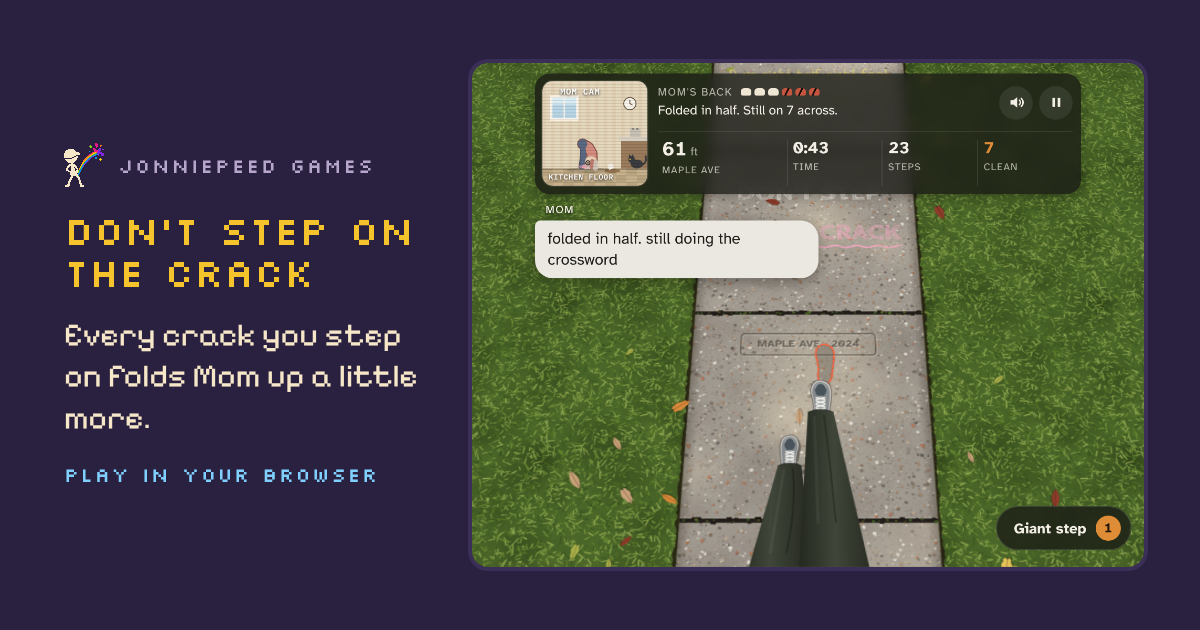
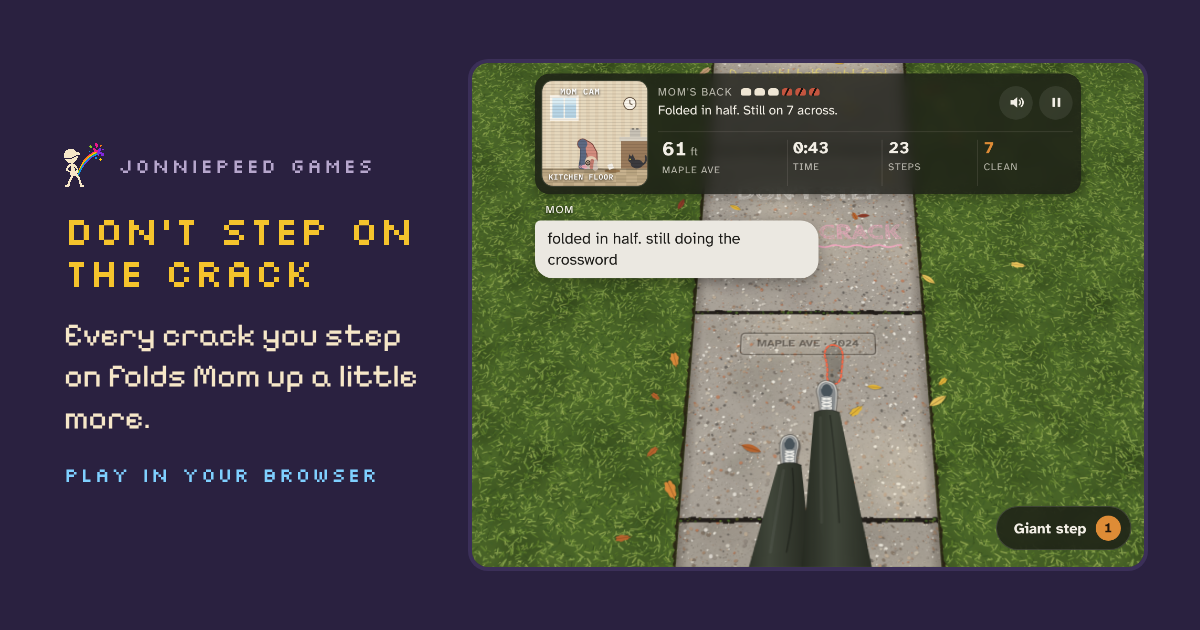
Don't Step on the Crack: a little ambient life
- Leaves let go every few seconds, flutter down and settle (more under
  Oak St's trees); a settled leaf can hide a crack and crunches underfoot
- A squirrel dashes across ahead now and then, stops mid-sidewalk to
  stare and chitter, then bolts
- Ants march single file beside a crack from Oak St on
- Street trees in the grass, always next to a root-heaved slab
- A cloud shadow slides over every minute or so
- A distant lawnmower on the quieter streets

Claude-Session: https://claude.ai/code/session_017r6t6W9FZXM4AKtKkuV23G

diff --git a/site/dont-step-on-the-crack/game.js b/site/dont-step-on-the-crack/game.js
@@ -192,6 +192,18 @@ function buildSlab(i,seed,k){
   if(i>=4&&rng()<0.2) sl.graffiti={t:GRAF[(rng()*GRAF.length)|0],x:1.4+rng()*2.2,d:d0+1+rng()*3,r:(rng()-0.5)*0.5,c:['#f7a8c4','#f4e27a','#9fd3f0','#fbf8f1'][(rng()*4)|0]};
   const gl=6+st*3+(rng()*4|0);
   for(let j=0;j<gl;j++){const left=rng()<0.5, off=0.12+rng()*rng()*3.4; sl.grassLeaves.push({x:left?-off:WS+off,d:d0+0.3+rng()*(S-0.6),s:0.22+rng()*0.24,a:rng()*6.283,c:LEAFC[(rng()*LEAFC.length)|0],t:rng()<0.35?'oak':'oval'});}
+  if(i>=1&&rng()<(sl.heave?0.9:st===2?0.4:0.1)){
+    const side=sl.heave||(rng()<0.5?-1:1), r=0.42+rng()*0.25, off=0.75+r+rng()*0.35;
+    sl.tree={x:side<0?-off:WS+off,d:d0+1.5+rng()*(S-3),r,seed:(rng()*1e9)|0};
+  }
+  if(st>=2&&nonJoint.length&&rng()<0.3){
+    const c=nonJoint[(rng()*nonJoint.length)|0];
+    if(c.pts.length>=4){
+      const cum=[0]; for(let j=1;j<c.pts.length;j++) cum.push(cum[j-1]+Math.hypot(c.pts[j][0]-c.pts[j-1][0],c.pts[j][1]-c.pts[j-1][1]));
+      const n=5+(rng()*6|0);
+      sl.ants={c,cum,len:cum[cum.length-1],n,off:rng()*10,v:(rng()<0.5?1:-1)*(0.12+rng()*0.08),gaps:Array.from({length:n},()=>0.1+rng()*0.18),side:rng()<0.5?1:-1};
+    }
+  }
   return sl;
 }
 
@@ -333,6 +345,7 @@ function renderTile(sl){
   const gp=g.createPattern(grassCv,'repeat'); setPat(gp,0,((d1*K)%gper+gper)%gper);
   g.fillStyle=gp; g.fillRect(0,0,Wc,hpx+1);
   const gt=[0,0.05,0.1,0.16,0.24][st]; if(gt){g.fillStyle=`rgba(152,122,58,${gt})`; g.fillRect(0,0,Wc,hpx+1);}
+  if(sl.tree) drawTree(g,tx(sl.tree.x),ty(sl.tree.d),sl.tree.r*K,sl.tree.seed);
   for(const side of [-1,1]){
     const xe=side<0?tx(0):tx(WS);
     g.fillStyle='rgba(36,28,18,0.85)'; g.beginPath(); g.moveTo(xe,-1);
@@ -767,6 +780,141 @@ function nextText(){
 function clearTexts(){textQ=[]; clearTimeout(textTimer); textShowing=false; textEl.classList.add('out');}
 
 
+/* ---------- ambient life: falling leaves, a squirrel, ants on a crack, cloud shadows ---------- */
+// All cosmetic. The only thing that touches play is that a leaf landing on a crack hides it, like the ones already there.
+let falling=[], squirrel=null, cloud=null, nextLeaf=0, nextSquirrel=0, nextCloud=0, nextMower=0;
+function ambientReset(now){
+  falling=[]; squirrel=null; cloud=null;
+  nextLeaf=now+1.5; nextSquirrel=now+10+Math.random()*10; nextCloud=now+18+Math.random()*25; nextMower=now+25+Math.random()*40;
+}
+function ambientUpdate(dt,now){
+  const st=stageOf(slabIdx(front.d));
+  // leaves let go every few seconds, more often under Oak St's trees
+  if(now>nextLeaf){
+    nextLeaf=now+((st===2?1.6:st>=3?2.6:3.4)+Math.random()*3)*(reduceMotion?2:1);
+    if(falling.length<6) falling.push({x:-1.8+Math.random()*(WS+3.6),d:camD+1.5+Math.random()*10,t:0,dur:3.2+Math.random()*2.2,h:1,
+      a:Math.random()*6.28,spin:(Math.random()-0.5)*5,ph:Math.random()*6.28,sw:0.25+Math.random()*0.35,s:0.22+Math.random()*0.2,
+      c:LEAFC[(Math.random()*LEAFC.length)|0],ty:Math.random()<0.3?'oak':'oval'});
+  }
+  for(let i=falling.length-1;i>=0;i--){
+    const L=falling[i]; L.t+=dt; L.h=Math.max(0,1-L.t/L.dur); L.a+=L.spin*dt*L.h; L.d-=dt*0.12;
+    if(L.h>0) continue;
+    falling.splice(i,1);
+    const sl=slabs.get(slabIdx(L.d));
+    if(sl){(sl.fallen||(sl.fallen=[])).push({x:L.x,d:L.d,s:L.s,a:L.a,c:L.c,t:L.ty}); if(sl.fallen.length>12) sl.fallen.shift();}
+  }
+  // a squirrel dashes across ahead now and then, stopping once in the middle to stare at you
+  if(!squirrel&&now>nextSquirrel){
+    nextSquirrel=now+(st===2?16:26)+Math.random()*18;
+    const dir=Math.random()<0.5?1:-1;
+    squirrel={x:dir>0?-3.2:WS+3.2,d:camD+3.5+Math.random()*5,dir,state:'run',t:0,seg:0.35,stopped:false,flick:0,hop:0};
+  }
+  if(squirrel){
+    const q=squirrel; q.t+=dt;
+    if(q.state==='run'){
+      q.x+=q.dir*6.5*dt; q.hop+=dt*16;
+      const mid=q.dir>0?q.x>WS*0.42:q.x<WS*0.58;
+      if(!q.stopped&&mid){q.stopped=true; q.state='pause'; q.t=0; q.seg=0.8+Math.random()*0.6; sfx.chitter(clamp((q.x-WS/2)/4,-0.8,0.8));}
+      else if(q.t>q.seg){q.state='pause'; q.t=0; q.seg=0.12+Math.random()*0.25;}
+    } else if(q.t>q.seg){q.state='run'; q.t=0; q.seg=0.3+Math.random()*0.35;}
+    q.flick=q.state==='pause'?Math.sin(q.t*20)*Math.max(0,1-q.t*1.8):0;
+    if(q.x<-4.5||q.x>WS+4.5) squirrel=null;
+  }
+  // a cloud's shadow slides over every so often
+  if(!cloud&&now>nextCloud){
+    nextCloud=now+40+Math.random()*35;
+    cloud={x:-0.7,y:0.2+Math.random()*0.5,v:0.055+Math.random()*0.03,blobs:Array.from({length:6},()=>({dx:(Math.random()-0.5)*0.9,dy:(Math.random()-0.5)*0.35,r:0.25+Math.random()*0.25}))};
+  }
+  if(cloud){cloud.x+=cloud.v*dt; if(cloud.x>1.7) cloud=null;}
+  // somebody is mowing a lawn a few houses over (the quieter streets only)
+  if(now>nextMower){nextMower=now+70+Math.random()*60; if(st<=2) sfx.mower();}
+}
+function drawFallen(lo,hi){
+  for(let i=lo;i<=hi;i++){const sl=slabs.get(i); if(sl&&sl.fallen) for(const L of sl.fallen) drawLeaf(ctx,X(L.x),Y(L.d),L.s*K,L.a,L.c,L.t);}
+}
+function drawFalling(){
+  for(const L of falling){
+    const gx=X(L.x), gy=Y(L.d), h=L.h, sway=Math.sin(L.t*2.2+L.ph)*L.sw*h;
+    ctx.fillStyle=`rgba(0,0,0,${(0.08+0.14*(1-h)).toFixed(3)})`;
+    ctx.beginPath(); ctx.ellipse(gx+sway*K*0.3,gy,L.s*K*0.45,L.s*K*0.25,L.a,0,6.283); ctx.fill();
+    // flutter: the leaf flips edge-on now and then as it falls
+    const flip=0.35+0.65*Math.abs(Math.cos(L.t*3.1+L.ph));
+    ctx.save(); ctx.translate(gx+sway*K,gy-h*2.6*K); ctx.scale(1+0.35*h,(1+0.35*h)*flip);
+    drawLeaf(ctx,0,0,L.s*K,L.a,L.c,L.ty); ctx.restore();
+  }
+}
+// ants march single file beside a crack (Oak St and on)
+function antAt(a,s){
+  const p=a.c.pts, cum=a.cum; let j=0; while(j<cum.length-2&&cum[j+1]<s) j++;
+  const seg=cum[j+1]-cum[j]||1, u=(s-cum[j])/seg, ang=Math.atan2(p[j+1][1]-p[j][1],p[j+1][0]-p[j][0]);
+  return {x:p[j][0]+(p[j+1][0]-p[j][0])*u, d:p[j][1]+(p[j+1][1]-p[j][1])*u, ang};
+}
+function drawAnts(now,lo,hi){
+  ctx.fillStyle='#17110c';
+  const k=K/58;
+  for(let i=lo;i<=hi;i++){
+    const sl=slabs.get(i), a=sl&&sl.ants; if(!a) continue;
+    let s0=a.off+now*a.v;
+    for(let n=0;n<a.n;n++){
+      s0+=a.gaps[n];
+      const s=((s0%a.len)+a.len)%a.len, fade=Math.min(1,s/0.2,(a.len-s)/0.2); if(fade<=0.05) continue;
+      const P=antAt(a,s), nx=-Math.sin(P.ang)*a.side, nd=Math.cos(P.ang)*a.side, off=0.06+Math.sin(now*18+n*1.7)*0.008;
+      const x=X(P.x+nx*off), y=Y(P.d+nd*off), dx=Math.cos(P.ang)*(a.v>0?1:-1), dy=-Math.sin(P.ang)*(a.v>0?1:-1);
+      ctx.globalAlpha=fade;
+      for(const [o,r] of [[2.8,1.4],[0,1.25],[-3.2,1.9]]){ctx.beginPath(); ctx.arc(x+dx*o*k,y+dy*o*k,r*k,0,6.283); ctx.fill();}
+    }
+  }
+  ctx.globalAlpha=1;
+}
+function drawSquirrel(){
+  const q=squirrel; if(!q) return;
+  const s=K*1.2, hop=q.state==='run'?Math.abs(Math.sin(q.hop)):0;
+  ctx.save(); ctx.translate(X(q.x),Y(q.d));
+  ctx.fillStyle='rgba(0,0,0,0.28)'; ctx.beginPath(); ctx.ellipse(-0.12*s,0.06*s,0.52*s,0.16*s,0,0,6.283); ctx.fill();
+  ctx.translate(0,-hop*0.06*s); ctx.scale(q.dir*(1+hop*0.06),1+hop*0.06);
+  // tail: a fluffy chain of puffs behind, waving side to side
+  const wave=t=>Math.sin(q.hop*0.6+t*2)*0.05+q.flick*0.09*t;
+  const puffs=[[-0.3,0.1],[-0.43,0.125],[-0.56,0.13],[-0.68,0.11]];
+  ctx.fillStyle='#a88d75'; for(const [px,r] of puffs){ctx.beginPath(); ctx.arc(px*s,wave(-px)*s,(r+0.03)*s,0,6.283); ctx.fill();}
+  ctx.fillStyle='#7a604c'; for(const [px,r] of puffs){ctx.beginPath(); ctx.arc(px*s,wave(-px)*s,r*s,0,6.283); ctx.fill();}
+  // legs scrabble while running
+  if(q.state==='run'){ctx.fillStyle='#6e5644'; const l=Math.sin(q.hop)*0.04; for(const [lx,ly] of [[0.12+l,0.11],[0.12-l,-0.11],[-0.12-l,0.12],[-0.12+l,-0.12]]){ctx.beginPath(); ctx.arc(lx*s,ly*s,0.035*s,0,6.283); ctx.fill();}}
+  ctx.fillStyle='#735742'; ctx.beginPath(); ctx.ellipse(-0.02*s,0,0.24*s,0.12*s,0,0,6.283); ctx.fill();
+  ctx.fillStyle='rgba(60,42,30,0.35)'; ctx.beginPath(); ctx.ellipse(-0.04*s,0,0.18*s,0.035*s,0,0,6.283); ctx.fill();
+  ctx.fillStyle='#735742'; ctx.beginPath(); ctx.ellipse(0.23*s,0,0.1*s,0.085*s,0,0,6.283); ctx.fill();
+  ctx.fillStyle='#6a5141'; ctx.beginPath(); ctx.arc(0.2*s,0.072*s,0.026*s,0,6.283); ctx.arc(0.2*s,-0.072*s,0.026*s,0,6.283); ctx.fill();
+  ctx.fillStyle='#120d0a'; ctx.beginPath(); ctx.arc(0.28*s,0.045*s,0.014*s,0,6.283); ctx.arc(0.28*s,-0.045*s,0.014*s,0,6.283); ctx.fill();
+  ctx.restore();
+}
+function drawCloud(){
+  if(!cloud) return;
+  const size=Math.max(Wc,Hc)*0.7, cx=cloud.x*Wc, cy=cloud.y*Hc;
+  for(const b of cloud.blobs){
+    const x=cx+b.dx*size, y=cy+b.dy*size, r=b.r*size, gr=ctx.createRadialGradient(x,y,0,x,y,r);
+    gr.addColorStop(0,'rgba(22,30,42,0.075)'); gr.addColorStop(1,'rgba(22,30,42,0)');
+    ctx.fillStyle=gr; ctx.fillRect(x-r,y-r,2*r,2*r);
+  }
+}
+// a street tree at the edge of the grass, roots reaching under the sidewalk (drawn into the tile, before the concrete)
+function drawTree(g,x,y,r,seed){
+  const rng=mulberry32(seed);
+  g.fillStyle='rgba(58,44,30,0.55)'; g.beginPath(); g.ellipse(x,y,r*1.55,r*1.45,0,0,6.283); g.fill();
+  g.lineCap='round';
+  for(let i=5+(rng()*3|0);i>0;i--){
+    const a=rng()*6.283, L=r*(1.15+rng()*0.9), bend=(rng()-0.5)*0.6;
+    for(const [w,f] of [[0.34,0.45],[0.2,0.78],[0.09,1]]){
+      g.strokeStyle='#5b4735'; g.lineWidth=r*w;
+      g.beginPath(); g.moveTo(x+Math.cos(a)*r*0.7,y+Math.sin(a)*r*0.7);
+      g.quadraticCurveTo(x+Math.cos(a+bend)*L*0.6*f,y+Math.sin(a+bend)*L*0.6*f,x+Math.cos(a+bend*1.4)*L*f,y+Math.sin(a+bend*1.4)*L*f); g.stroke();
+    }
+  }
+  const gr=g.createRadialGradient(x-r*0.3,y-r*0.35,r*0.1,x,y,r);
+  gr.addColorStop(0,'#7a624b'); gr.addColorStop(1,'#4a392b');
+  g.fillStyle=gr; g.beginPath(); g.arc(x,y,r,0,6.283); g.fill();
+  g.strokeStyle='rgba(30,22,15,0.45)'; g.lineWidth=Math.max(1,r*0.06);
+  for(let i=0;i<14;i++){const a=rng()*6.283, r0=r*(0.45+rng()*0.3); g.beginPath(); g.moveTo(x+Math.cos(a)*r0,y+Math.sin(a)*r0); g.lineTo(x+Math.cos(a)*r*0.97,y+Math.sin(a)*r*0.97); g.stroke();}
+}
+
 /* ---------- sound buttons ---------- */
 const sfx=CrackSound;
 const sndBtns=[...document.querySelectorAll('.snd')];
@@ -871,7 +1019,7 @@ function reset(){
   bestAtStart=best; bestStreakAtStart=bestStreak; newBestShown=false;
   input.latch=0; input.down=false; input.id=null; input.key=null;
   kinks=[]; curPose=clonePose(POSES[6]); camFlinch=0; xrayUntil=0; xrayJ=-1; clearTexts(); idleTexted=false;
-  lastStepAt=performance.now()/1000; nextAmbient=lastStepAt+30; bot.active=false; bot.next=0;
+  lastStepAt=performance.now()/1000; nextAmbient=lastStepAt+30; bot.active=false; bot.next=0; ambientReset(lastStepAt);
   sfx.wind(0);
   clearMsgs();
   updateHUD();
@@ -932,7 +1080,7 @@ function land(now){
   let got=false, leafy=false, gum=false;
   for(const sl of near){
     const cp=sl.coupon; if(cp&&!cp.taken&&psd(cp.x,cp.d,f.x,ay,f.x,by)<R+0.24){cp.taken=true; cp.tt=now; got=true;}
-    for(const L of sl.leaves) if(psd(L.x,L.d,f.x,ay,f.x,by)<R+L.s*0.35){leafy=true; break;}
+    for(const L of sl.leaves.concat(sl.fallen||[])) if(psd(L.x,L.d,f.x,ay,f.x,by)<R+L.s*0.35){leafy=true; break;}
     for(const gm of sl.gum) if(psd(gm.x,gm.d,f.x,ay,f.x,by)<R+gm.r){gum=true; break;}
   }
   if(drop.giant){sfx.giantLand(); kick(5);}
@@ -1149,6 +1297,7 @@ window.addEventListener('blur',()=>{input.down=false; input.id=null; input.key=n
 function update(dt,now){
   if(mode==='paused'){if(camFlinch>0) camFlinch=Math.max(0,camFlinch-dt*2.2); return;}
   if(mode==='title') botUpdate(now);
+  ambientUpdate(dt,now);
   if(phase==='idle'&&input.latch){const s=input.latch; input.latch=0; beginSwing(s,now);}
   if(phase==='swing'){
     const speed=(sw.dmax-sw.dmin)/(swingTime(slabIdx(front.d))*(sw.giant?1.35:1));
@@ -1197,7 +1346,9 @@ function render(now){
   if(shake>0.3) ctx.translate((Math.random()-0.5)*shake,(Math.random()-0.5)*shake*0.6);
   const lo=slabIdx(camD-(Hc-yAnchor)/K), hi=slabIdx(camD+yAnchor/K);
   for(let i=hi;i>=lo;i--){const sl=slabs.get(i); if(!sl) continue; const c=getTile(sl); ctx.drawImage(c,0,Y((i+1)*S),Wc,c.height/dpr);}
-  drawCoupons(now,lo,hi); drawHitFx(now); drawShadows(now,lo-1,hi+1); drawPuffs(now); drawFeet();
+  drawFallen(lo,hi); drawAnts(now,lo,hi);
+  drawCoupons(now,lo,hi); drawHitFx(now); drawShadows(now,lo-1,hi+1); drawPuffs(now); drawSquirrel(); drawFeet();
+  drawFalling(); drawCloud();
   drawCam(now);
 }
 let lastT=performance.now();

diff --git a/site/dont-step-on-the-crack/index.html b/site/dont-step-on-the-crack/index.html
@@ -11,14 +11,14 @@
 <meta property="og:title" content="Don't Step on the Crack · JonniePeed Games">
 <meta property="og:description" content="Walk home without stepping on a crack. Every one you land on folds Mom up a little more, live on the Mom Cam. A game for phone or desktop.">
 <meta property="og:url" content="https://jonniesparkles.github.io/jonniepeed-games/dont-step-on-the-crack/index.html">
-<meta property="og:image" content="https://jonniesparkles.github.io/jonniepeed-games/assets/og/dont-step-on-the-crack.png?v=793f9cb58a">
+<meta property="og:image" content="https://jonniesparkles.github.io/jonniepeed-games/assets/og/dont-step-on-the-crack.png?v=838708469a">
 <meta property="og:image:width" content="1200">
 <meta property="og:image:height" content="630">
 <meta property="og:image:alt" content="Looking down at your sneakers on a cracked sidewalk, with a security-camera view of Mom folded in half in her kitchen">
 <meta name="twitter:card" content="summary_large_image">
 <meta name="twitter:title" content="Don't Step on the Crack · JonniePeed Games">
 <meta name="twitter:description" content="Walk home without stepping on a crack. Every one you land on folds Mom up a little more, live on the Mom Cam. A game for phone or desktop.">
-<meta name="twitter:image" content="https://jonniesparkles.github.io/jonniepeed-games/assets/og/dont-step-on-the-crack.png?v=793f9cb58a">
+<meta name="twitter:image" content="https://jonniesparkles.github.io/jonniepeed-games/assets/og/dont-step-on-the-crack.png?v=838708469a">
 <meta name="twitter:image:alt" content="Looking down at your sneakers on a cracked sidewalk, with a security-camera view of Mom folded in half in her kitchen">
 <link rel="icon" href="../favicon.ico?v=443c0101ac" sizes="any">
 <link rel="icon" type="image/png" href="../assets/favicon-32.png?v=569f3f592d">
@@ -329,7 +329,7 @@ html,body{height:100%;margin:0;overflow:hidden;background:var(--ground);color:va
     </div>
   </div>
 </div>
-<script src="audio.js?v=d8e586678d"></script>
-<script src="game.js?v=db229ca6c7"></script>
+<script src="audio.js?v=3460723b50"></script>
+<script src="game.js?v=f5a5a59849"></script>
 </body>
 </html>

diff --git a/site/dont-step-on-the-crack/audio.js b/site/dont-step-on-the-crack/audio.js
@@ -133,6 +133,22 @@ const CrackSound = {
     else g.connect(this.master);
     s.start(t); s.stop(t + dur + 0.05);
   },
+  // a squirrel scolding you from the middle of the sidewalk
+  chitter(pan) { for (let i = 0; i < 7; i++) this.tone(2600 + Math.random() * 900, 3400 + Math.random() * 600, 0.025, 0.03, 'triangle', i * 0.055 + Math.random() * 0.015, { pan, always: true }); },
+  // a lawnmower a few houses over: fades in, drones, fades out
+  mower() {
+    if (!this.c || !this.on) return;
+    const c = this.c, t = c.currentTime, dur = 10 + Math.random() * 5, pan = (Math.random() < 0.5 ? -1 : 1) * (0.5 + Math.random() * 0.4);
+    const o = c.createOscillator(); o.type = 'sawtooth'; o.frequency.setValueAtTime(92, t);
+    const wob = c.createOscillator(); wob.frequency.value = 0.35; const wg = c.createGain(); wg.gain.value = 6; wob.connect(wg); wg.connect(o.frequency);
+    const n = c.createBufferSource(); n.buffer = this.nb; n.loop = true;
+    const nf = c.createBiquadFilter(); nf.type = 'bandpass'; nf.frequency.value = 900; nf.Q.value = 0.8;
+    const ng = c.createGain(); ng.gain.value = 0.25;
+    const f = c.createBiquadFilter(); f.type = 'lowpass'; f.frequency.value = 520;
+    const g = c.createGain(); g.gain.setValueAtTime(0.0001, t); g.gain.linearRampToValueAtTime(0.022, t + 3); g.gain.setValueAtTime(0.022, t + dur - 3); g.gain.linearRampToValueAtTime(0.0001, t + dur);
+    o.connect(f); n.connect(nf); nf.connect(ng); ng.connect(f); f.connect(g); g.connect(this.out(pan));
+    o.start(t); wob.start(t); n.start(t); o.stop(t + dur); wob.stop(t + dur); n.stop(t + dur);
+  },
   ping() { this.tone(1568, 1570, 0.09, 0.045, 'triangle'); this.tone(2093, 2095, 0.12, 0.035, 'triangle', 0.08); },
   ring() { for (const w of [0, 0.55]) { this.tone(440, 440, 0.42, 0.09, 'sine', w); this.tone(480, 480, 0.42, 0.09, 'sine', w); this.tone(115, 115, 0.42, 0.035, 'sawtooth', w); } },
 

diff --git a/site/index.html b/site/index.html
@@ -83,7 +83,7 @@ footer img{width:20px;height:22px;image-rendering:pixelated}
   <h2>Games</h2>
   <div class="grid">
     <a class="card pink" href="dont-step-on-the-crack/index.html">
-      <div class="thumb"><img src="assets/thumb-dont-step-on-the-crack.webp?v=645e3a9c57" width="768" height="576" alt="Looking down at sneakers on a chalked sidewalk, with a Mom Cam showing Mom folded in half in her kitchen"></div>
+      <div class="thumb"><img src="assets/thumb-dont-step-on-the-crack.webp?v=947abfb7a9" width="768" height="576" alt="Looking down at sneakers on a chalked sidewalk, with a Mom Cam showing Mom folded in half in her kitchen"></div>
       <div class="info">
         <span class="tag">Game · phone or desktop</span>
         <h3>Don't Step on the Crack</h3>
